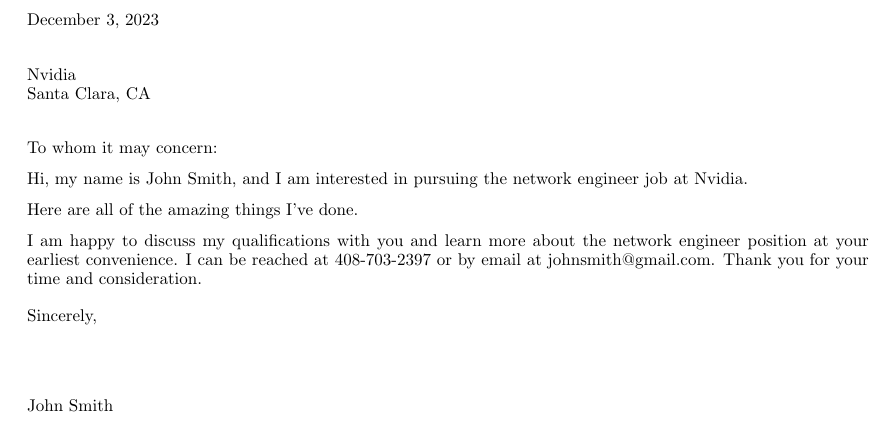
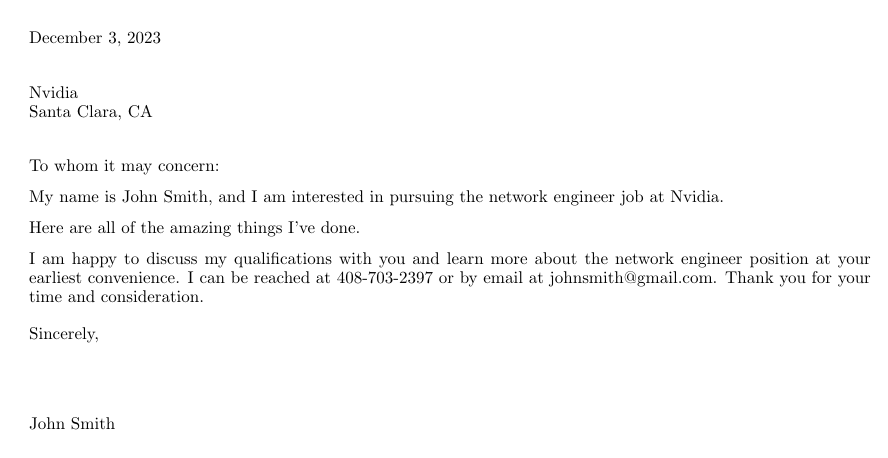
update screen shot

diff --git a/cover_letters/Nvidia_cover_letter.tex b/cover_letters/Nvidia_cover_letter.tex
@@ -56,7 +56,7 @@ Santa Clara, CA }
 
 \opening{To whom it may concern:} 
  
-Hi, my name is John Smith, and I am interested in pursuing the network engineer job at Nvidia.
+My name is John Smith, and I am interested in pursuing the network engineer job at Nvidia.
 
 Here are all of the amazing things I've done.
 
